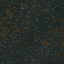
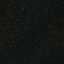
Visual improvements

diff --git a/ColorTheme.hpp b/ColorTheme.hpp
@@ -23,5 +23,5 @@
 #pragma once
 
 
-static const sf::Color UI_COLOR = sf::Color(10, 10, 10);
+static const sf::Color UI_COLOR = sf::Color(5, 5, 5);
 static const sf::Color CELL_COLOR_HIGHLIGHTED = sf::Color(0, 0, 0, 120);
